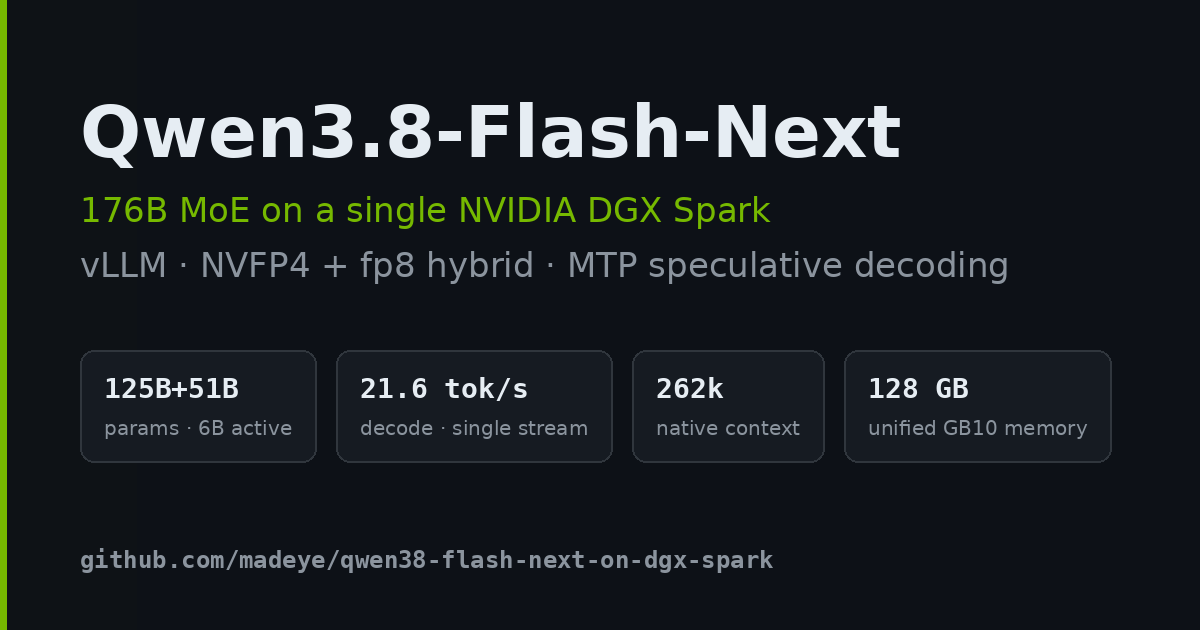
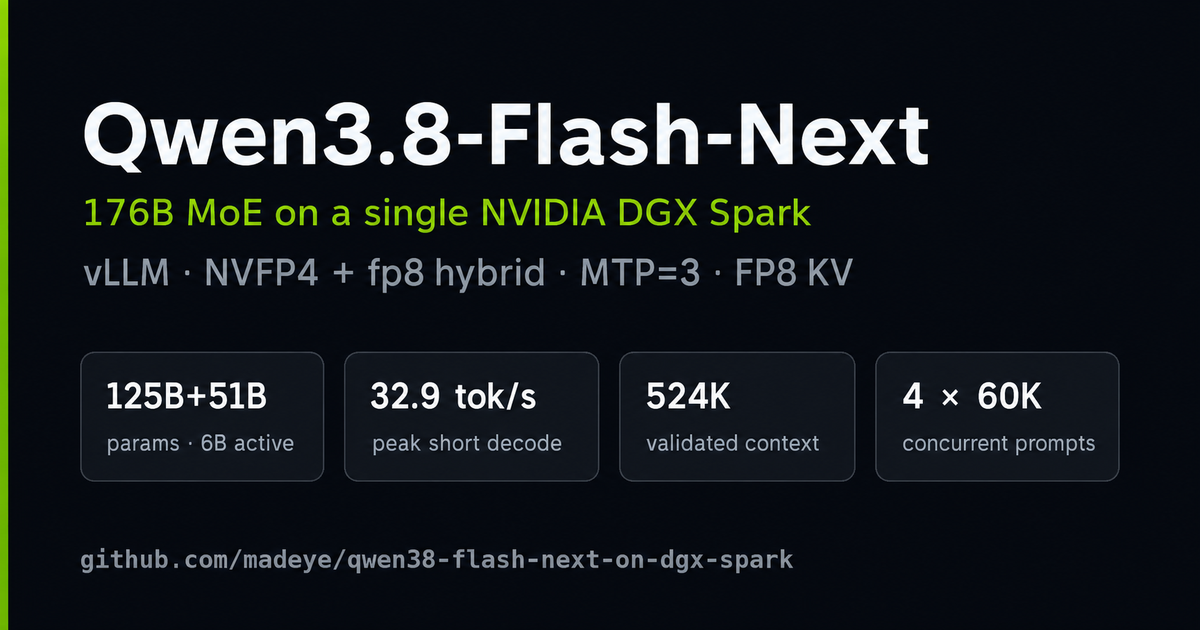
Refresh social card for aligned serving profiles

diff --git a/docs/index.html b/docs/index.html
@@ -9,13 +9,13 @@
 <meta property="og:title" content="Qwen3.8-Flash-Next on a single NVIDIA DGX Spark">
 <meta property="og:description" content="176B MoE, 6B active — native 262k and YaRN 524k on one GB10 with FP8 KV, MTP=3, setup notes, and measured validation.">
 <meta property="og:url" content="https://madeye.github.io/qwen38-flash-next-on-dgx-spark/">
-<meta property="og:image" content="https://madeye.github.io/qwen38-flash-next-on-dgx-spark/assets/social-card.png">
+<meta property="og:image" content="https://madeye.github.io/qwen38-flash-next-on-dgx-spark/assets/social-card.png?v=20260906">
 <meta property="og:image:width" content="1200">
 <meta property="og:image:height" content="630">
 <meta name="twitter:card" content="summary_large_image">
 <meta name="twitter:title" content="Qwen3.8-Flash-Next on a single NVIDIA DGX Spark">
 <meta name="twitter:description" content="176B MoE, 6B active — native 262k and YaRN 524k on one GB10 with FP8 KV, MTP=3, setup notes, and measured validation.">
-<meta name="twitter:image" content="https://madeye.github.io/qwen38-flash-next-on-dgx-spark/assets/social-card.png">
+<meta name="twitter:image" content="https://madeye.github.io/qwen38-flash-next-on-dgx-spark/assets/social-card.png?v=20260906">
 <style>
   :root { --bg:#0d1117; --fg:#e6edf3; --dim:#8b949e; --green:#76b900; --chip:#161b22; --edge:#30363d; }
   * { box-sizing: border-box; }
@@ -51,7 +51,7 @@
     on one NVIDIA DGX Spark (GB10, 128 GB unified memory) with the
     <a href="https://github.com/blazux/qwen3.8-Flash-DGX">qwen3.8-Flash-DGX</a> recipe.</p>
 
-  <img class="card" src="assets/social-card.png" alt="Qwen3.8-Flash-Next on a single NVIDIA DGX Spark">
+  <img class="card" src="assets/social-card.png?v=20260906" alt="Qwen3.8-Flash-Next on a single NVIDIA DGX Spark">
 
   <h2>Validated aligned profiles (2026-09-06)</h2>
   <p>The compatible defaults now follow
